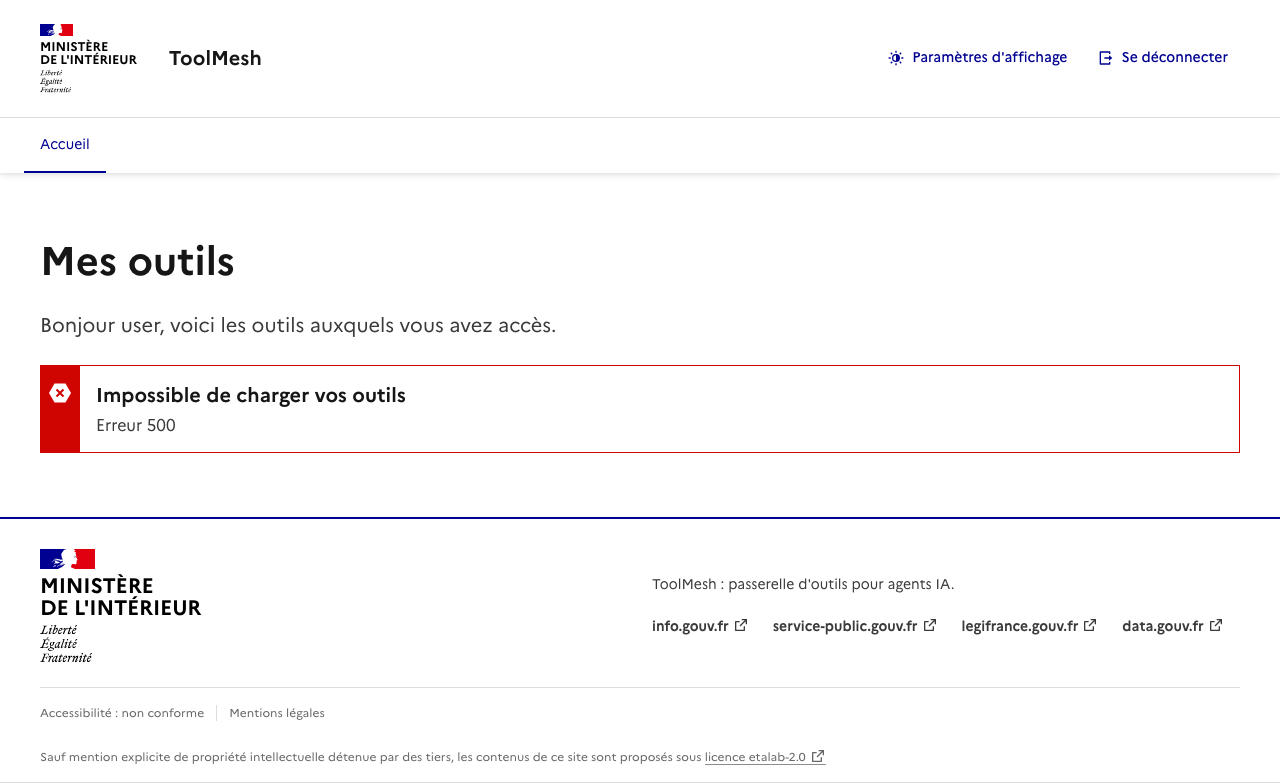
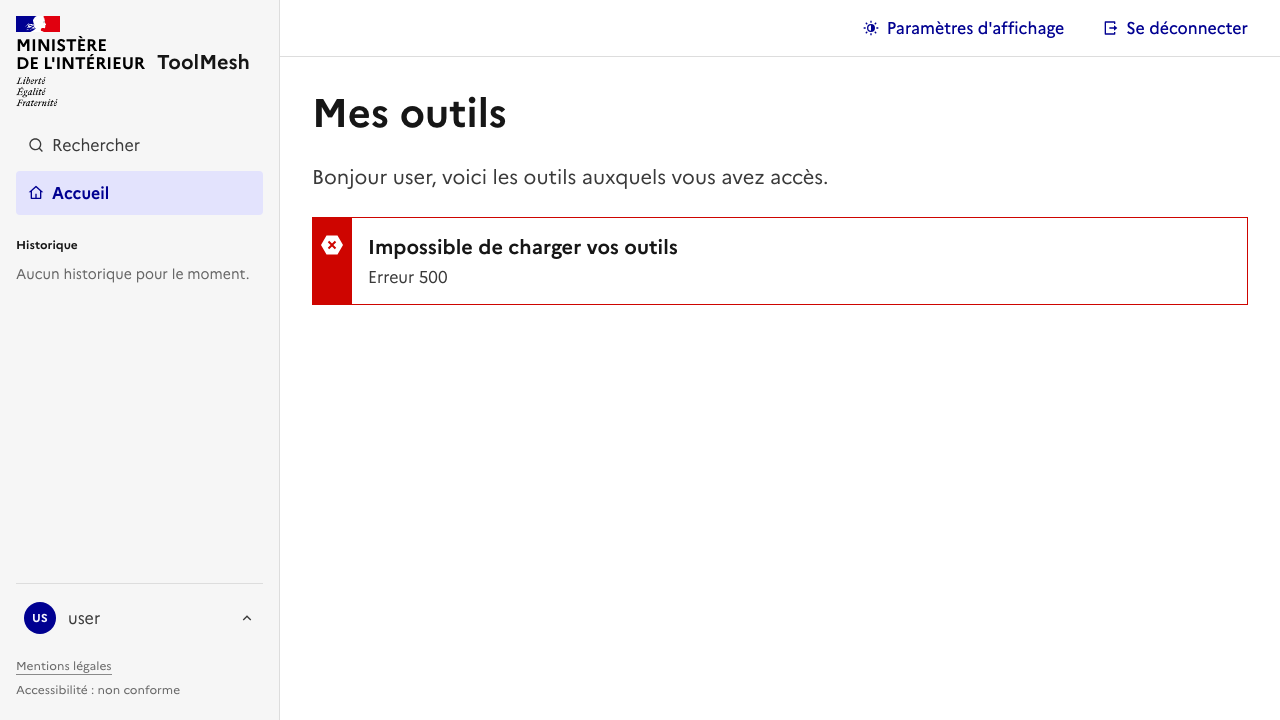
docs(front): update screenshots for the app layout

diff --git a/frontend/e2e/screenshots.spec.js b/frontend/e2e/screenshots.spec.js
@@ -14,15 +14,7 @@ const asUser = (p) => p.route("**/api/auth/me", (r) => r.fulfill({ json: USER })
 const settle = (p) => p.evaluate(() => document.fonts.ready); // attend les polices DSFR
 const out = (...parts) => path.join(DOCS, ...parts);
 const full = { fullPage: true, animations: "disabled" };
-
-test("@docs landing anonyme", async ({ page }) => {
-  await asAnonymous(page);
-  await page.goto("/");
-  await settle(page);
-  await page.screenshot({ path: out("pages/landing/anonyme.png"), ...full });
-  await page.getByRole("banner").screenshot({ path: out("components/header/anonyme.png") });
-  await page.getByRole("contentinfo").screenshot({ path: out("components/footer/footer.png") });
-});
+const sidebar = (p) => p.getByRole("complementary", { name: "Barre latérale" });
 
 test("@docs accueil connecté", async ({ page }) => {
   await asUser(page);
@@ -31,7 +23,42 @@ test("@docs accueil connecté", async ({ page }) => {
   await page.getByText("datetime").waitFor();
   await settle(page);
   await page.screenshot({ path: out("pages/accueil/connecte.png"), ...full });
-  await page.getByRole("banner").screenshot({ path: out("components/header/connecte.png") });
+  await sidebar(page).screenshot({ path: out("components/sidebar/connecte.png") });
+  await page.getByRole("banner").screenshot({ path: out("components/topbar/connecte.png") });
+});
+
+test("@docs accueil menu du compte ouvert", async ({ page }) => {
+  await asUser(page);
+  await page.route("**/api/me/tools", (r) => r.fulfill({ json: TOOLS }));
+  await page.goto("/accueil");
+  await page.getByText("datetime").waitFor();
+  await page.getByRole("button", { name: "user", exact: true }).click();
+  await page.getByRole("group", { name: "Menu du compte" }).waitFor();
+  await settle(page);
+  // la barre latérale entière, car le panneau est positionné au-dessus du bouton
+  await sidebar(page).screenshot({ path: out("components/user-menu/ouvert.png") });
+});
+
+test("@docs accueil modale de recherche", async ({ page }) => {
+  await asUser(page);
+  await page.route("**/api/me/tools", (r) => r.fulfill({ json: TOOLS }));
+  await page.goto("/accueil");
+  await page.getByText("datetime").waitFor();
+  await sidebar(page).getByRole("button", { name: "Rechercher" }).click();
+  await page.getByRole("dialog").getByRole("searchbox").waitFor();
+  await settle(page);
+  await page.screenshot({ path: out("components/search-modal/ouverte.png"), animations: "disabled" });
+});
+
+test("@docs accueil paramètres d'affichage", async ({ page }) => {
+  await asUser(page);
+  await page.route("**/api/me/tools", (r) => r.fulfill({ json: TOOLS }));
+  await page.goto("/accueil");
+  await page.getByText("datetime").waitFor();
+  await page.getByRole("banner").getByRole("button", { name: "Paramètres d'affichage" }).click();
+  await page.getByRole("dialog", { name: "Paramètres d'affichage" }).waitFor();
+  await settle(page);
+  await page.screenshot({ path: out("components/display-modal/ouverte.png"), animations: "disabled" });
 });
 
 test("@docs accueil erreur outils", async ({ page }) => {
@@ -40,6 +67,33 @@ test("@docs accueil erreur outils", async ({ page }) => {
   await page.goto("/accueil");
   await page.getByRole("alert").waitFor();
   await page.screenshot({ path: out("pages/accueil/erreur-outils.png"), ...full });
+});
+
+test.describe("mobile", () => {
+  test.use({ viewport: { width: 390, height: 800 } });
+
+  test("@docs accueil mobile", async ({ page }) => {
+    await asUser(page);
+    await page.route("**/api/me/tools", (r) => r.fulfill({ json: TOOLS }));
+    await page.goto("/accueil");
+    await page.getByText("datetime").waitFor();
+    await settle(page);
+    await page.screenshot({ path: out("pages/accueil/mobile.png"), ...full });
+
+    await page.getByRole("button", { name: "Menu" }).click();
+    await sidebar(page).waitFor();
+    await settle(page);
+    await page.screenshot({ path: out("pages/accueil/mobile-menu.png"), animations: "disabled" });
+  });
+});
+
+test("@docs landing anonyme", async ({ page }) => {
+  await asAnonymous(page);
+  await page.goto("/");
+  await settle(page);
+  await page.screenshot({ path: out("pages/landing/anonyme.png"), ...full });
+  await page.getByRole("banner").screenshot({ path: out("components/header/anonyme.png") });
+  await page.getByRole("contentinfo").screenshot({ path: out("components/footer/footer.png") });
 });
 
 test("@docs mentions légales", async ({ page }) => {

diff --git a/docs/frontend/README.md b/docs/frontend/README.md
@@ -2,9 +2,19 @@
 
 Générées par `cd frontend && bun run docs:screenshots`.
 
-| Page               | Capture                              |
-| ------------------ | ------------------------------------ |
-| Landing (anonyme)  | ![](pages/landing/anonyme.png)       |
-| Accueil (connecté) | ![](pages/accueil/connecte.png)      |
-| Accueil (erreur)   | ![](pages/accueil/erreur-outils.png) |
-| Mentions légales   | ![](pages/mentions-legales/page.png) |
+| Page / composant        | Capture                                   |
+| ----------------------- | ----------------------------------------- |
+| Landing (anonyme)       | ![](pages/landing/anonyme.png)            |
+| Accueil (connecté)      | ![](pages/accueil/connecte.png)           |
+| Accueil (erreur)        | ![](pages/accueil/erreur-outils.png)      |
+| Accueil (mobile)        | ![](pages/accueil/mobile.png)             |
+| Accueil (menu mobile)   | ![](pages/accueil/mobile-menu.png)        |
+| Mentions légales        | ![](pages/mentions-legales/page.png)      |
+| Page 404                | ![](pages/404/page.png)                   |
+| Header (anonyme)        | ![](components/header/anonyme.png)        |
+| Footer                  | ![](components/footer/footer.png)         |
+| Barre latérale          | ![](components/sidebar/connecte.png)      |
+| Mini header             | ![](components/topbar/connecte.png)       |
+| Menu du compte (ouvert) | ![](components/user-menu/ouvert.png)      |
+| Modale de recherche     | ![](components/search-modal/ouverte.png)  |
+| Paramètres d'affichage  | ![](components/display-modal/ouverte.png) |
